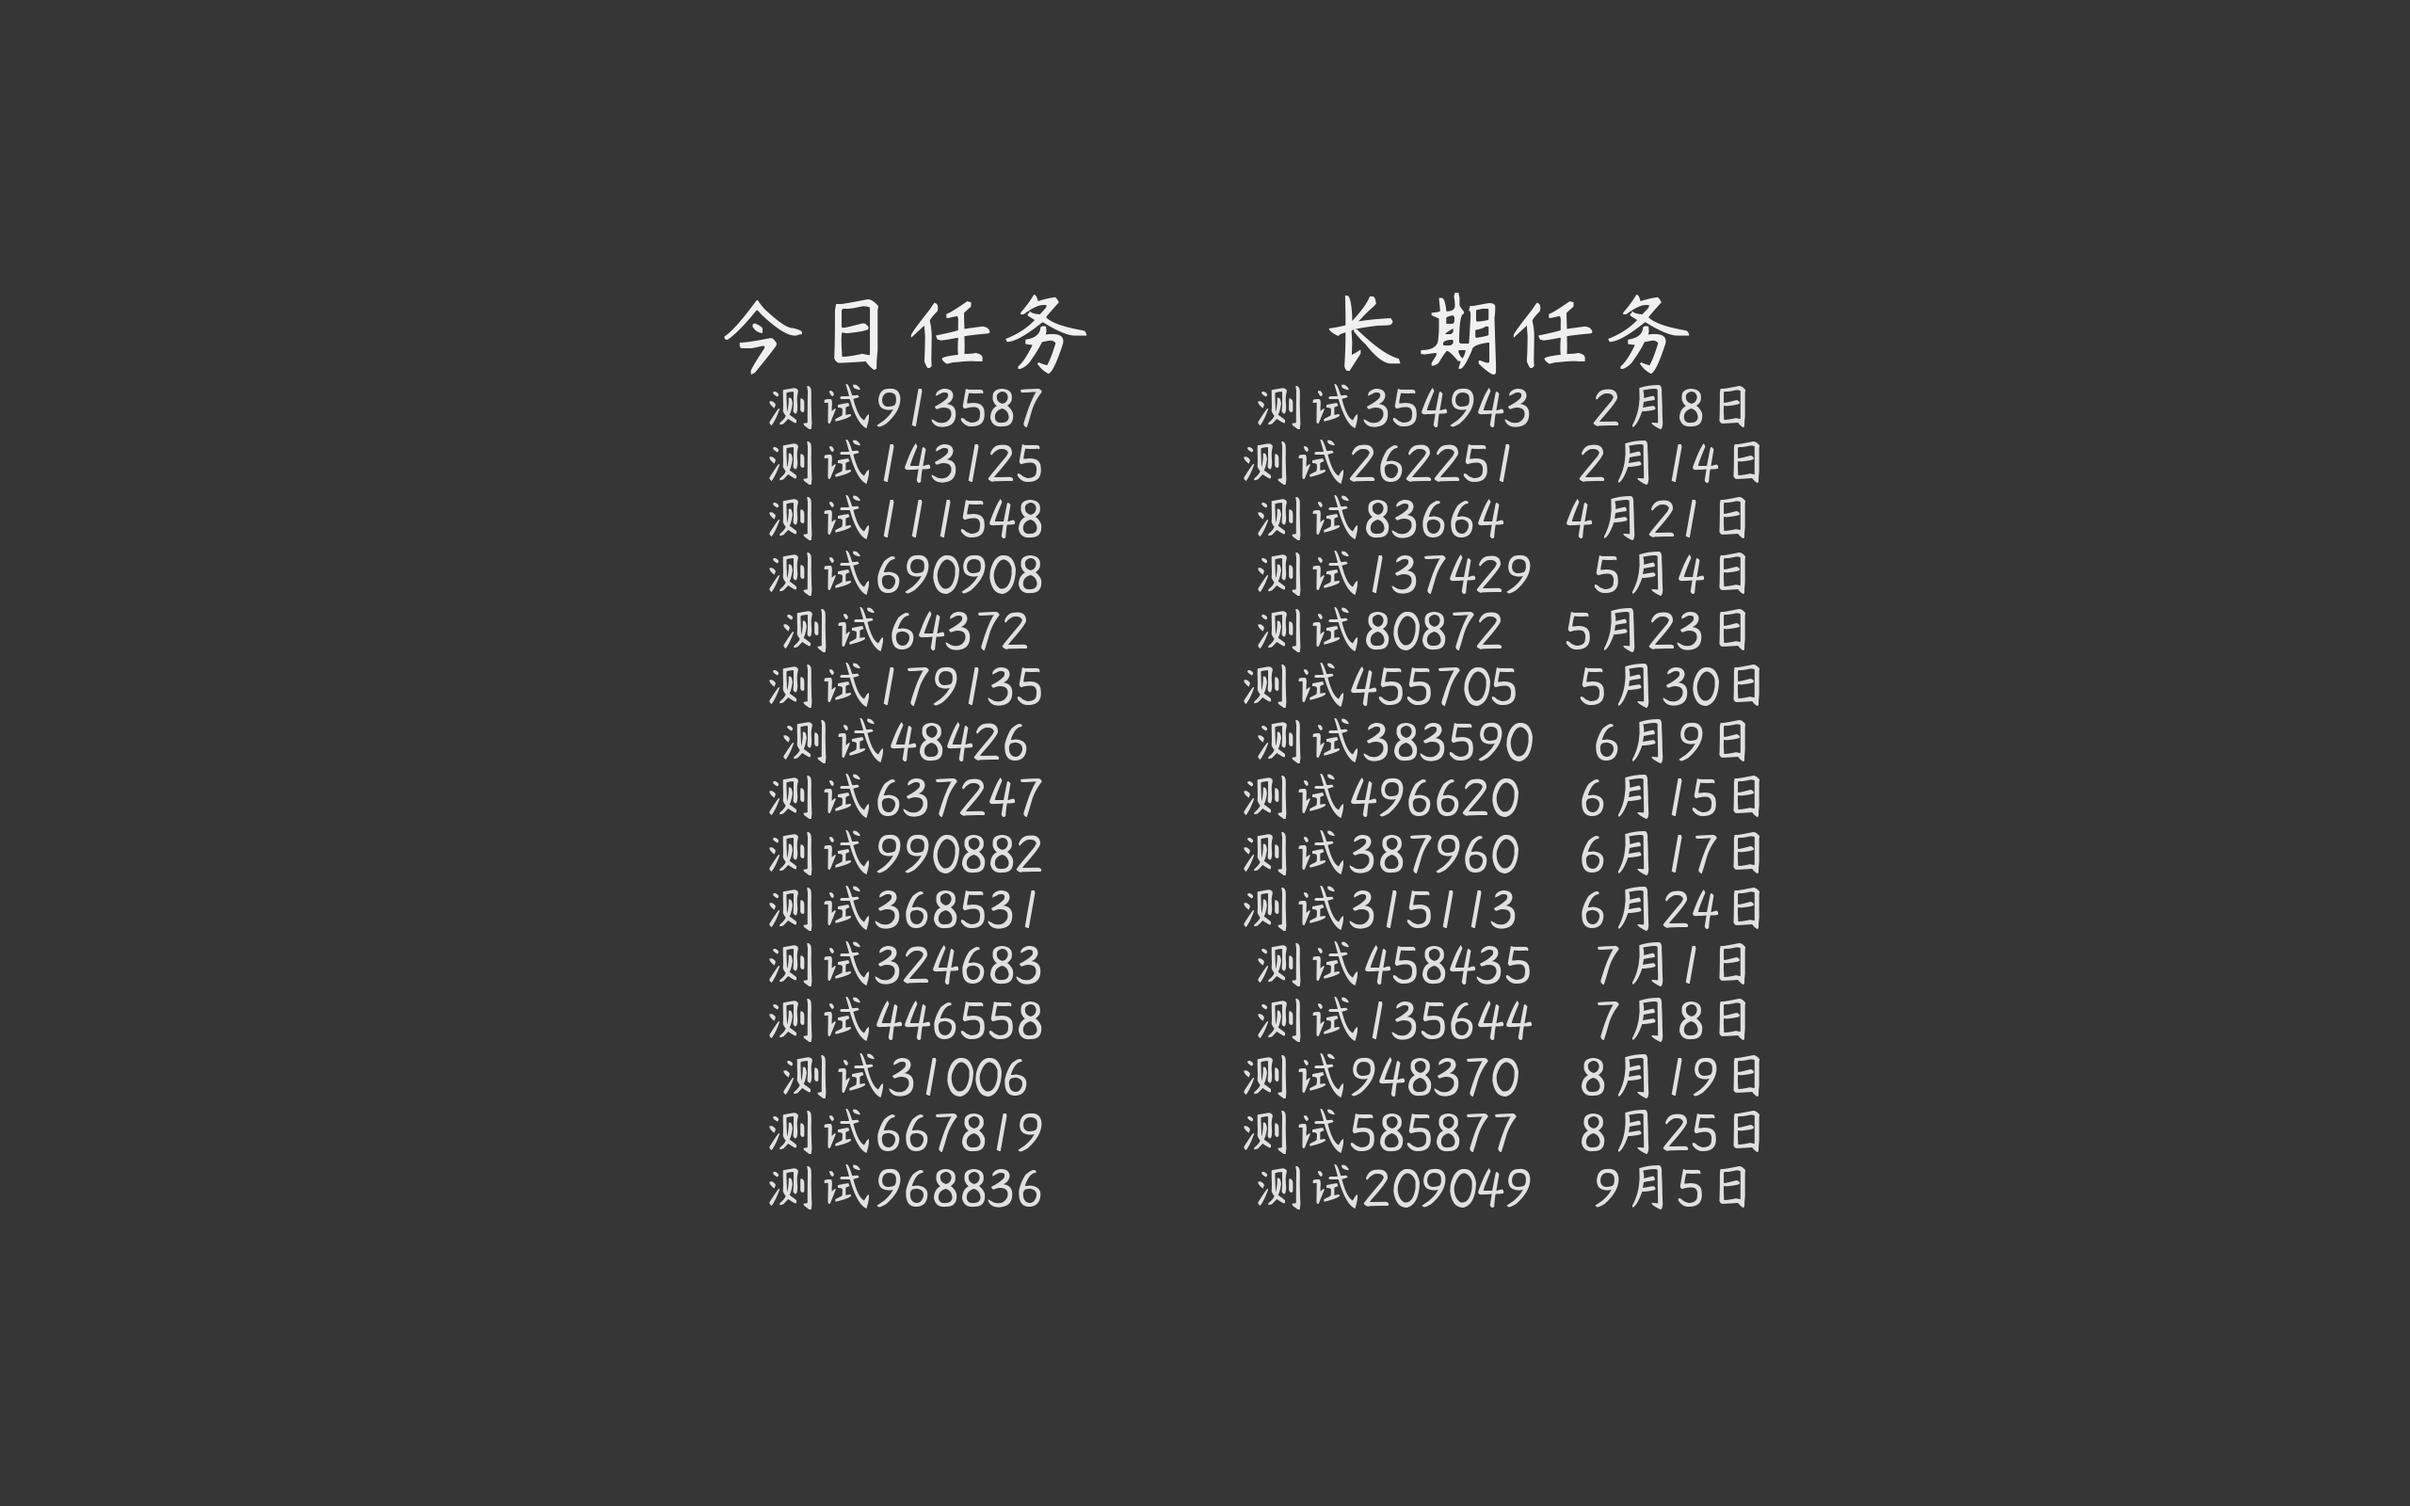
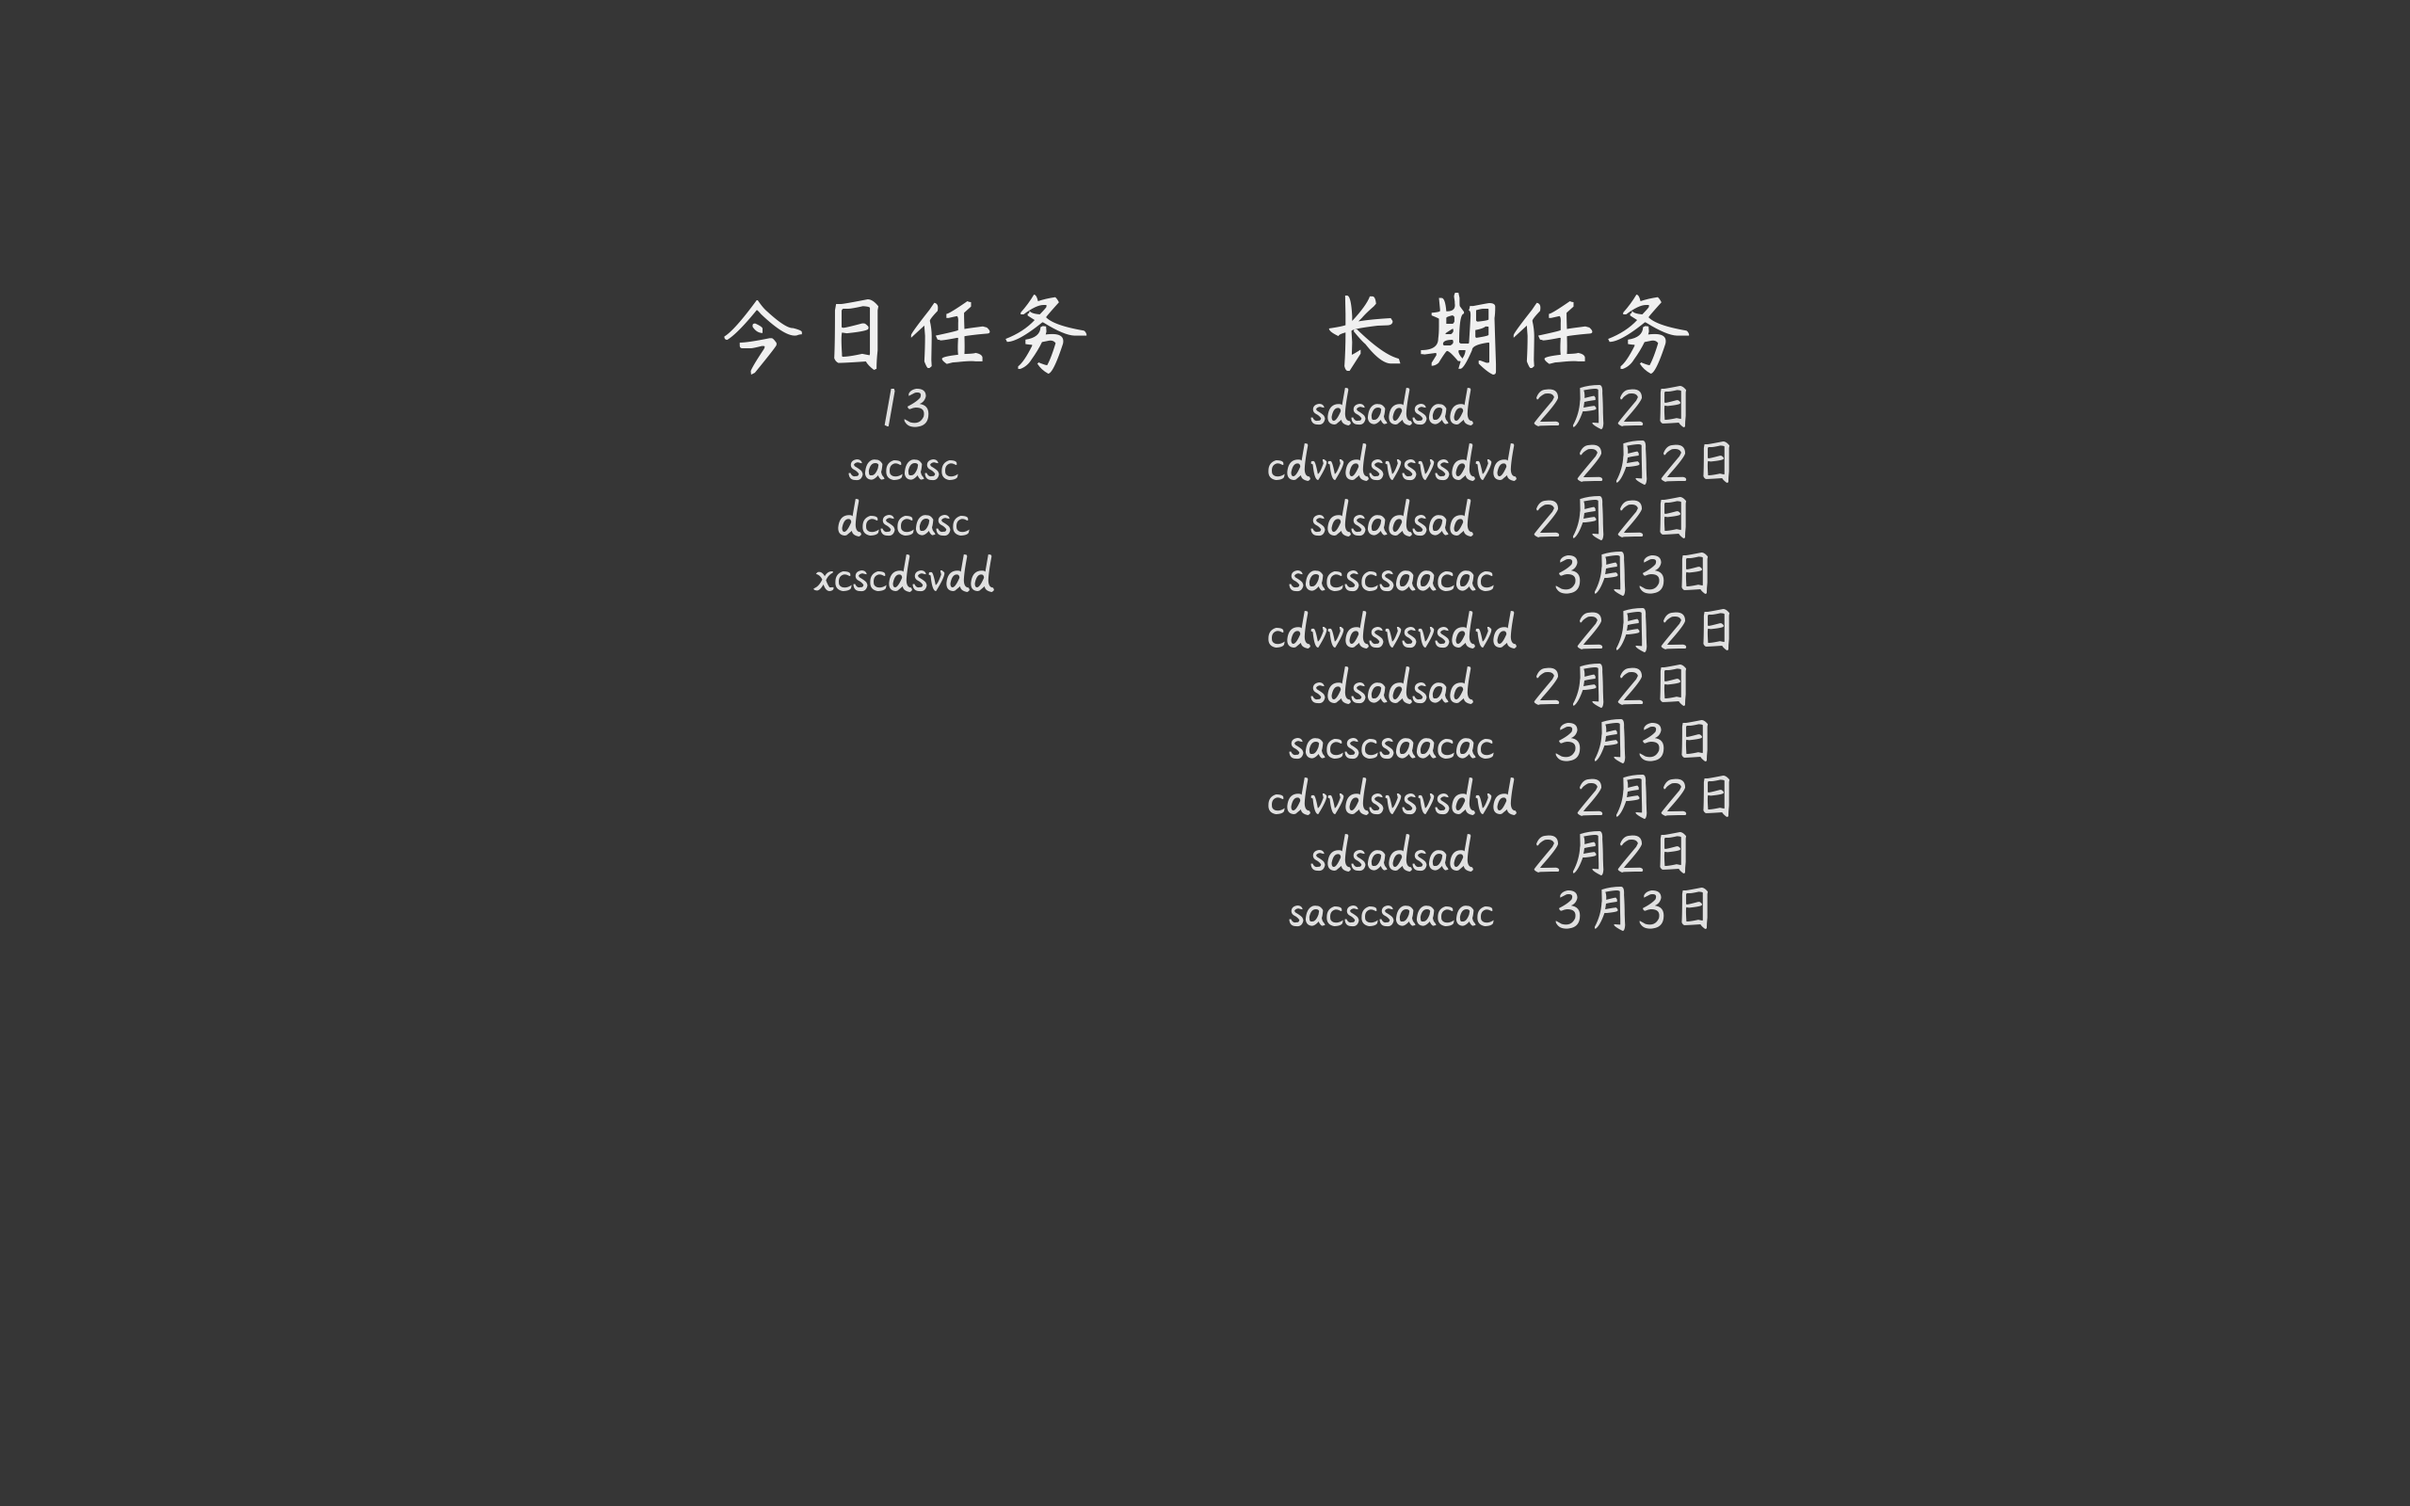
finish the multiple choice of delete and routine finished

Changed region(s): [[0.5, 0.25, 0.75, 0.8125], [0.3125, 0.25, 0.4375, 0.8125]]

diff --git a/Code/Routine/routine.py b/Code/Routine/routine.py
@@ -11,7 +11,7 @@ def r_create():
     # 检测输入合法性
     while True:
         try:
-            int(cycle)
+            cycle = int(cycle)
             if cycle > 0:
                 break
             else:
@@ -20,6 +20,28 @@ def r_create():
             cycle = input('请输入正确的周期：')
     # 写入文件
     r_io.r_out_new(mission, cycle)
+
+# 检测输入合法性
+def ensureChoice(choice, r_len):
+    while True:
+        choice_list_str = choice.split('/')
+        ensure = True
+        for c in choice_list_str:
+            try:
+                c = int(c)
+                if c <= 0 or c > r_len:
+                    ensure = False
+                    break
+                else:
+                    continue
+            except:
+                ensure = False
+                break
+        if ensure == False:
+            choice = input('请输入正确的序号：')
+        else:
+            break
+    return choice_list_str
 
 # 标记周期任务已完成
 def r_finish():
@@ -33,7 +55,7 @@ def r_finish():
     index = 1
     j = 0
     routine_dict = {}
-    print('请选择已完成的周期任务序号：')
+    print('请选择已完成的周期任务序号，可用“/”分隔多个序号：')
     for r in routine_list:
         # 判断任务是否被完成
         if r[0] == '0':
@@ -47,19 +69,18 @@ def r_finish():
         j += 1
     choice = input()
     # 检测输入合法性
-    while True:
-        try:
-            choice = int(choice)
-            if choice <= 0 or choice > len(routine_list):
-                choice = input('请输入正确的序号：')
-            else:
-                break
-        except:
-            choice = input('请输入正确的序号：')
+    r_len = len(routine_dict.keys())
+    choice_list_str = ensureChoice(choice, r_len)
     # 标记列表中的对象
-    r_temp = routine_list[routine_dict[choice]][1:]
-    r_temp = '1' + r_temp
-    routine_list[routine_dict[choice]] = r_temp
+    choice_list_int = []
+    for choice in choice_list_str:
+        choice = int(choice)
+        choice_list_int.append(choice)
+    choice_list_int.sort(reverse=True)
+    for routine in choice_list_int:
+        r_temp = routine_list[routine_dict[routine]][1:]
+        r_temp = '1' + r_temp
+        routine_list[routine_dict[routine]] = r_temp
     # 重新写入
     r_file = open(r_io.ROUTINE_FILE, 'w', encoding='UTF-8')
     r_file.close()
@@ -76,24 +97,23 @@ def r_delete():
         return
     # 打印可删除的选项
     i = 1
-    print('请选择所要删除的周期任务序号：')
+    print('请选择所要删除的周期任务序号，可用“/”分隔多个序号：')
     for r in routine_list:
         mission = r.split(',')[2]
         print('{}. {}'.format(i, mission))
         i += 1
     choice = input()
     # 检测输入合法性
-    while True:
-        try:
-            choice = int(choice)
-            if choice <= 0 or choice > len(routine_list):
-                choice = input('请输入正确的序号：')
-            else:
-                break
-        except:
-            choice = input('请输入正确的序号：')
+    r_len = len(routine_list)
+    choice_list_str = ensureChoice(choice, r_len)
     # 删除列表中的对象
-    del routine_list[choice - 1]
+    choice_list_int = []
+    for choice in choice_list_str:
+        choice = int(choice)
+        choice_list_int.append(choice)
+    choice_list_int.sort(reverse=True)
+    for routine in choice_list_int:
+        del routine_list[routine - 1]
     # 重新写入
     r_file = open(r_io.ROUTINE_FILE, 'w', encoding='UTF-8')
     r_file.close()

diff --git a/Code/Todo.py b/Code/Todo.py
@@ -8,18 +8,19 @@ from Routine import *
 from Event import *
 import paint
 
-func_list = [('routine.r_create()','创建周期任务'),
+main_menu = [('routine.r_create()', '创建周期任务'),
              ('event.e_create()','创建单次任务'),
              ('routine.r_finish()', '标记周期任务已完成'),
              ('routine.r_delete()','删除周期任务'),
              ('event.e_delete()','删除单次任务'),
-             ('','启用可选模块'),
-             ('','停用可选模块'),]
+             ('','长期任务菜单'),
+             ('','可选模块菜单'),
+             ('','设置')]
 
 def printMenu():
     print('===此处应有欢迎语===')
     i = 1
-    for func in func_list:
+    for func in main_menu:
         print('{}. {}'.format(i,func[1]))
         i += 1
     print('0. 退出程序')
@@ -37,17 +38,22 @@ def main():
                 # paint.setWallpaper()
                 break
             else:
-                eval(func_list[int(choice) - 1][0])
+                eval(main_menu[int(choice) - 1][0])
         except:
             choice = ''
         system('cls')
 
 if __name__ == '__main__':
-    from random import randint
-    for i in range(20):
-        r_io.r_out_new('测试{}'.format(randint(0, 999999)), randint(0, 99))
-        e_io.e_out_new('测试{}'.format(randint(0, 999999)), '{}/{}/{}'.format(2021, randint(1, 12), randint(1, 30)))
+    # 添加随机测试数据
+    # from random import randint
+    # for i in range(20):
+    #     r_io.r_out_new('测试{}'.format(randint(0, 999999)), randint(0, 99))
+    #     e_io.e_out_new('测试{}'.format(randint(0, 999999)), '{}/{}/{}'.format(2021, randint(1, 12), randint(1, 30)))
 
     # paint.generateWallpaper()
-    # routine.r_finish()
-    # main()
+    # routine.r_create()
+    routine.r_finish()
+    # routine.r_delete()
+    # event.e_delete()
+
+    main()

diff --git a/Code/Event/event.py b/Code/Event/event.py
@@ -29,7 +29,7 @@ def e_delete():
         return
     # 打印可删除的选项
     i = 1
-    print('请选择所要删除的单次任务序号：')
+    print('请选择所要删除的单次任务序号，可用“/”分隔多个序号：')
     for e in event_list:
         mission = e.split(',')[0]
         print('{}. {}'.format(i, mission))
@@ -37,16 +37,31 @@ def e_delete():
     choice = input()
     # 检测输入合法性
     while True:
-        try:
-            choice = int(choice)
-            if choice <= 0 or choice > len(event_list):
-                choice = input('请输入正确的序号：')
-            else:
+        choice_list_str = choice.split('/')
+        ensure = True
+        for c in choice_list_str:
+            try:
+                c = int(c)
+                if c <= 0 or c> len(event_list):
+                    ensure = False
+                    break
+                else:
+                    continue
+            except:
+                ensure = False
                 break
-        except:
+        if ensure == False:
             choice = input('请输入正确的序号：')
+        else:
+            break
     # 删除列表中的对象
-    del event_list[choice - 1]
+    choice_list_int = []
+    for choice in choice_list_str:
+        choice = int(choice)
+        choice_list_int.append(choice)
+    choice_list_int.sort(reverse=True)
+    for event in choice_list_int:
+        del event_list[event - 1]
     # 重新写入
     e_file = open(e_io.EVENT_FILE, 'w', encoding='UTF-8')
     e_file.close()
